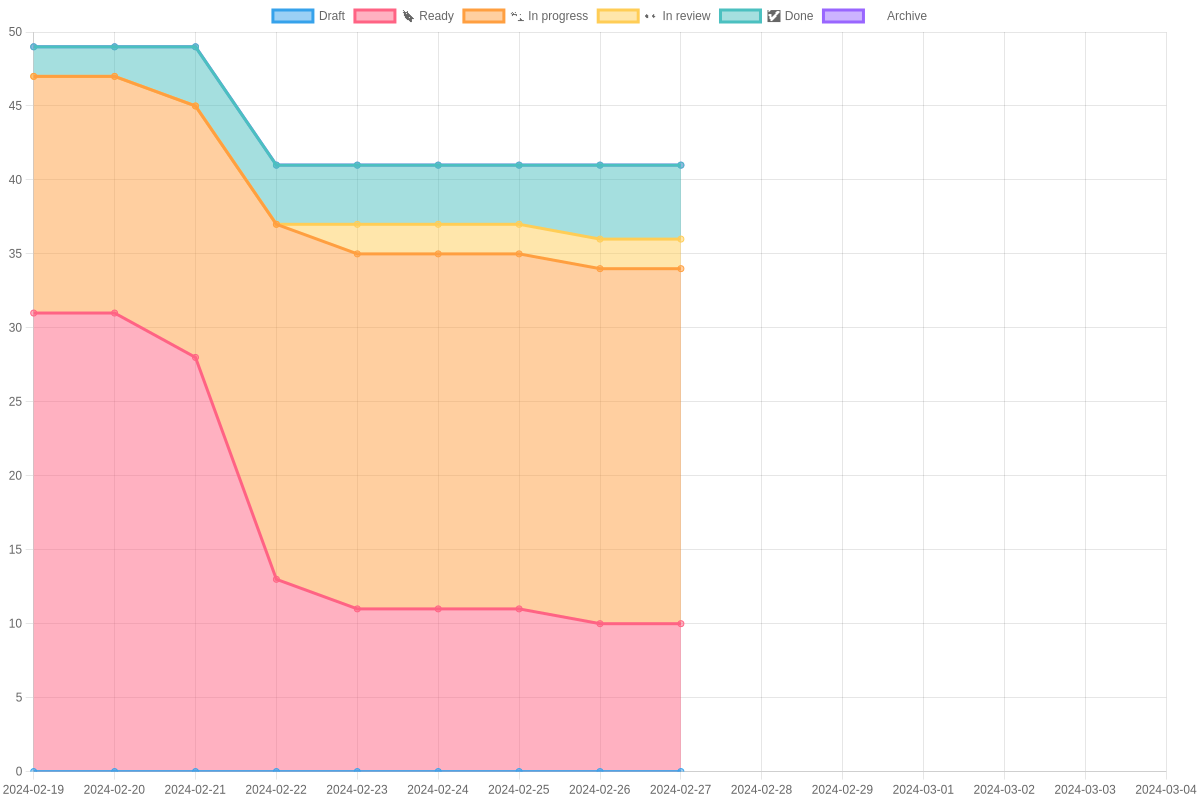
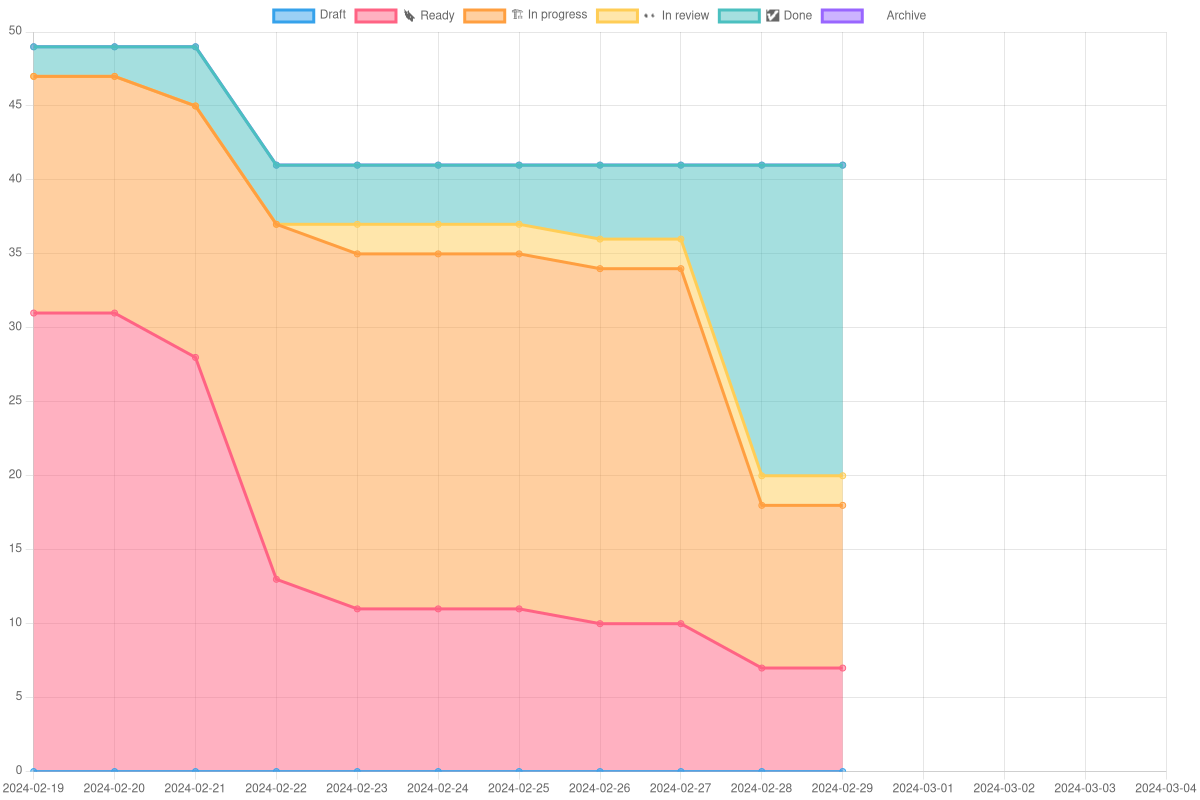
Add missing data

diff --git a/stats/iteration_11/README.md b/stats/iteration_11/README.md
@@ -1,6 +1,6 @@
 ## Current Iteration: Iteration 11
-### Last Status 2024-02-27
-<img src="./status_per_team/2024-02-27.png" width="600" title="Current Status">
+### Last Status 2024-02-29
+<img src="./status_per_team/2024-02-29.png" width="600" title="Current Status">
 
 ### Core Burn Down Chart
 <img src="./core_burn_down.png" width="600" title="Core Burn Down Chart">
@@ -27,5 +27,5 @@
 
 
 
-### Team member Status 2024-02-27
-<img src="./status_per_teammember/2024-02-27.png" width="600" title="Current Member Status">
+### Team member Status 2024-02-29
+<img src="./status_per_teammember/2024-02-29.png" width="600" title="Current Member Status">

diff --git a/stats/README.md b/stats/README.md
@@ -1,11 +1,11 @@
 # Safe{Core} Sprint Stats
-<img src="./total_complexity/2024-02-27.png" width="600" title="Total Complexity">
+<img src="./total_complexity/2024-02-29.png" width="600" title="Total Complexity">
 
 
 
 ## Current Iteration: Iteration 11
-### Status 2024-02-27
-<img src="./iteration_11/status_per_team/2024-02-27.png" width="600" title="Current Status">
+### Status 2024-02-29
+<img src="./iteration_11/status_per_team/2024-02-29.png" width="600" title="Current Status">
 
 ### Core Burn Down Chart
 <img src="./iteration_11/core_burn_down.png" width="600" title="Core Burn Down Chart">
